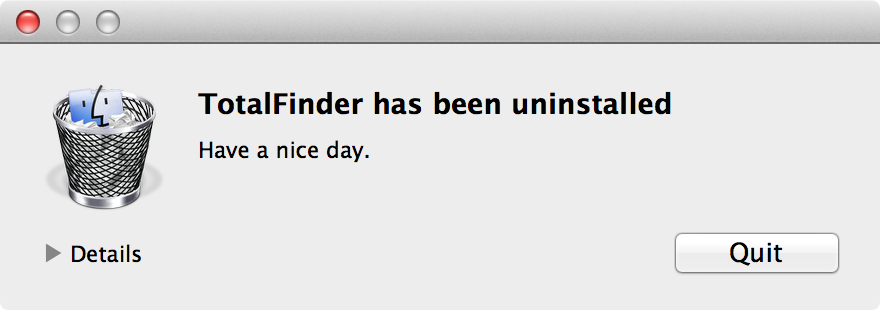
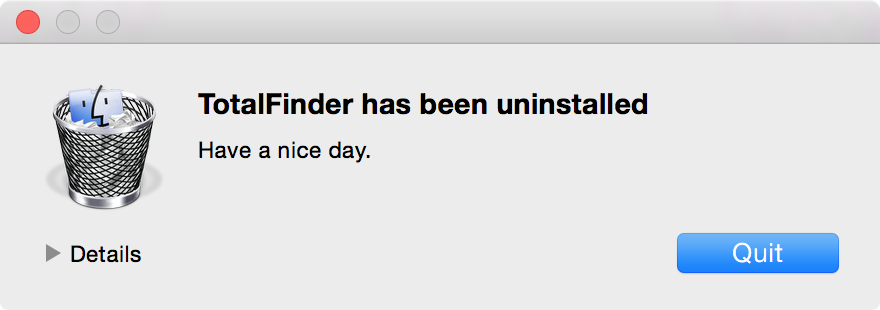
partial docs update for yosemite

diff --git a/installation.md b/installation.md
@@ -8,10 +8,15 @@ subtitle: Install TotalFinder
 
 TotalFinder has a convenient installer which guides you through the installation steps:
 
-1. Download and open the latest archive TotalFinder-X.Y.Z.dmg from [http://totalfinder.binaryage.com](http://totalfinder.binaryage.com)
-2. Launch `TotalFinder.pkg`
-3. Click through the installation process
-4. Finder will be relaunched with TotalFinder
+* Download and open the latest archive TotalFinder-X.Y.Z.dmg from [http://totalfinder.binaryage.com](http://totalfinder.binaryage.com)
+* Launch `TotalFinder.pkg`
+
+<img src="/images/installer-dmg.png" class="doc-image add-shadow" style="width:400px"><br>
+
+* Click through the installation process
+* Finder will be relaunched with TotalFinder
+
+<img src="/images/successful-install.png" class="doc-image add-shadow" style="width:400px">
 
 ## TotalFinder updates
 
@@ -36,6 +41,6 @@ For removal please read the [uninstallation page](/uninstallation).
 
 ## Configuration settings
 
-`/Users/<user>/Library/Preferences/com.apple.finder.plist` - all TotalFinder related keys are prefixed with `TotalFinder`
+`/Users/<user>/Library/Preferences/com.binaryage.totalfinder.plist`
 
-Note: You may safely remove any TotalFinder prefixed keys. TotalFinder will re-create them with default values when restarted. Deleting the whole `com.apple.finder.plist` file and restarting Finder will reset both Finder and TotalFinder into factory defaults.
+Note: You may safely remove the TotalFinder plist file or remove any values inside. TotalFinder will re-create it with default values when restarted.

diff --git a/uninstallation.md b/uninstallation.md
@@ -22,12 +22,12 @@ Or download and open the latest archive from [totalfinder.binaryage.com](http://
 
 ## Purging the configuration
 
-By default the uninstaller does not remove your configuration settings from `/Users/<user>/Library/Preferences/com.apple.finder.plist`
+By default the uninstaller does not remove your configuration settings from `/Users/<user>/Library/Preferences/com.binaryage.totalfinder.plist`
 
 It is just a few extra bytes we leave in case you need to temporarily uninstall TotalFinder and decide to reinstall later. 
 
 <img src="/images/property-list-editor.png" class="doc-image add-shadow" style="width:400px;">
 
-A future version of the uninstaller will offer to remove the configuration keys. Right now you have to do it by hand. If you want to clean the TotalFinder trail completely, remove all TotalFinder prefixed keys from that file. You can use plist editor to do that:
+If you want to clean the TotalFinder trail completely. Force quit Finder via CMD+OPT+ESC and then delete the plist from Terminal.app:
 
-    open ~/Library/Preferences/com.apple.finder.plist
+    rm ~/Library/Preferences/com.binaryage.totalfinder.plist
